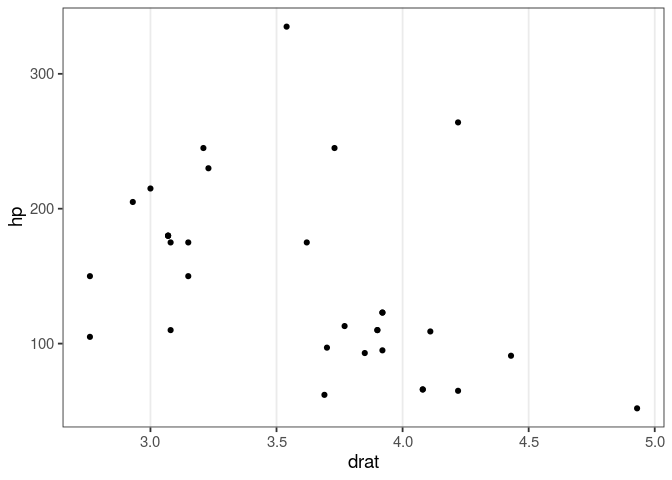
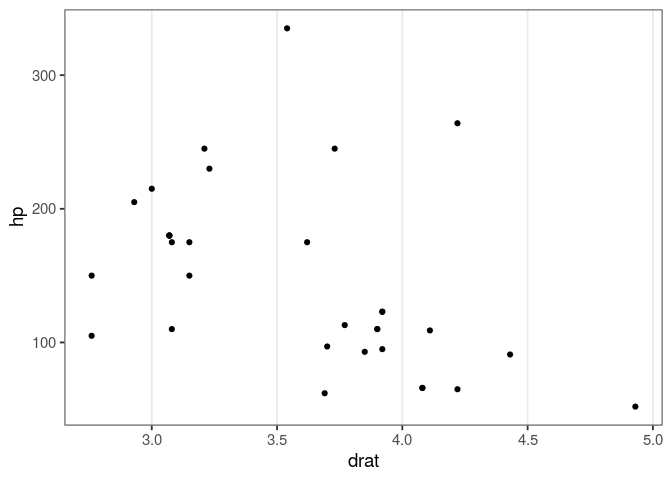
add func is_outlier

diff --git a/README.md b/README.md
@@ -4,7 +4,7 @@
 # relper
 
 The goal of relper is to provide miscellaneous functions to assist in
-data cleaning and preparation.
+data cleaning and visualization.
 
 ## Installation
 
@@ -18,6 +18,7 @@ remotes::install_github("vbfelix/relper")
 
 ``` r
 library(ggplot2)
+
 plot <- 
 ggplot(mtcars,aes(drat,hp))+
   geom_point()
@@ -25,7 +26,7 @@ ggplot(mtcars,aes(drat,hp))+
 plot
 ```
 
-<img src="man/figures/README-example-1.png" width="100%" />
+<img src="man/figures/README-example-1.png" width="60%" />
 
 ### theme\_x
 
@@ -33,7 +34,7 @@ plot
 plot + theme_x()
 ```
 
-<img src="man/figures/README-unnamed-chunk-1-1.png" width="100%" />
+<img src="man/figures/README-unnamed-chunk-1-1.png" width="60%" />
 
 ### theme\_y
 
@@ -41,27 +42,45 @@ plot + theme_x()
 plot + theme_y()
 ```
 
-<img src="man/figures/README-unnamed-chunk-2-1.png" width="100%" />
+<img src="man/figures/README-unnamed-chunk-2-1.png" width="60%" />
 
-### theme\_x
+### theme\_map
 
 ``` r
 plot + theme_map()
 ```
 
-<img src="man/figures/README-unnamed-chunk-3-1.png" width="100%" />
+<img src="man/figures/README-unnamed-chunk-3-1.png" width="60%" />
+
+### flip\_y\_title
+
+``` r
+plot + flip_y_title
+```
+
+<img src="man/figures/README-unnamed-chunk-4-1.png" width="60%" />
+
+### water\_mark
+
+``` r
+url <- "https://upload.wikimedia.org/wikipedia/commons/thumb/1/1b/R_logo.svg/1200px-R_logo.svg.png"
+
+logo <- water_mark(url, local_file = F)
+
+plot + annotation_custom(logo)
+```
+
+<img src="man/figures/README-unnamed-chunk-5-1.png" width="60%" />
 
 ## Metrics
 
 ``` r
-set.seed(123)
 x <- rexp(20,.5)
 
 x
-#>  [1] 1.68691452 1.15322054 2.65810974 0.06315472 0.11242195 0.63300243
-#>  [7] 0.62845458 0.29053361 5.45247293 0.05830689 2.00966012 0.96042946
-#> [13] 0.56202726 0.75423566 0.37656808 1.69957226 3.12640708 0.95752083
-#> [19] 1.18186967 8.08202342
+#>  [1] 1.1648435 1.1287297 2.2085722 1.1166282 0.1521227 0.4931802 1.1548049
+#>  [8] 1.5323907 0.2704114 1.1844414 1.0040010 0.1656004 1.4771211 0.5574183
+#> [15] 1.5271919 6.1837545 1.3643848 0.6574451 2.0666065 1.9663614
 ```
 
 ### Coefficient of Variation (CV)
@@ -69,18 +88,51 @@ x
 ``` r
 #raw
 cv(x, perc = F)
-#> [1] 1.228836
+#> [1] 0.9367495
 
 #%
 cv(x, perc = T)
-#> [1] 122.8836
+#> [1] 93.67495
 ```
 
-### Harmonic mean
+### Mean’s
+
+``` r
+num_mean(x)
+#> # A tibble: 1 x 3
+#>   arithmetic geometric harmonic
+#>        <dbl>     <dbl>    <dbl>
+#> 1       1.37     0.979    0.638
+```
+
+#### Harmonic mean
 
 ``` r
 harmonic_mean(x)
-#> [1] 0.3293037
+#> [1] 0.6384985
+```
+
+### Numeric univariate summary statistics
+
+``` r
+num_summary(x)
+#> # A tibble: 1 x 12
+#>       n    na negative equal_zero positive   min   p25   p50   p75   max  mean
+#>   <int> <int>    <int>      <int>    <int> <dbl> <dbl> <dbl> <dbl> <dbl> <dbl>
+#> 1    20     0        0          0       20 0.152 0.632  1.16  1.53  6.18  1.37
+#> # … with 1 more variable: cv <dbl>
+```
+
+### Correlations
+
+``` r
+y <- rnorm(20)
+
+num_corr(x,y)
+#> # A tibble: 1 x 3
+#>   pearson kendall spearman
+#>     <dbl>   <dbl>    <dbl>
+#> 1  0.0340 -0.0842   -0.125
 ```
 
 ## Others
@@ -89,11 +141,13 @@ harmonic_mean(x)
 
 ``` r
 x <- seq(-3,3,l = 100)
+
 y <- dnorm(x)
+
 plot(x,y)
 ```
 
-<img src="man/figures/README-aux example-1.png" width="100%" />
+<img src="man/figures/README-aux example-1.png" width="60%" />
 
 ``` r
 auc(x,y)
